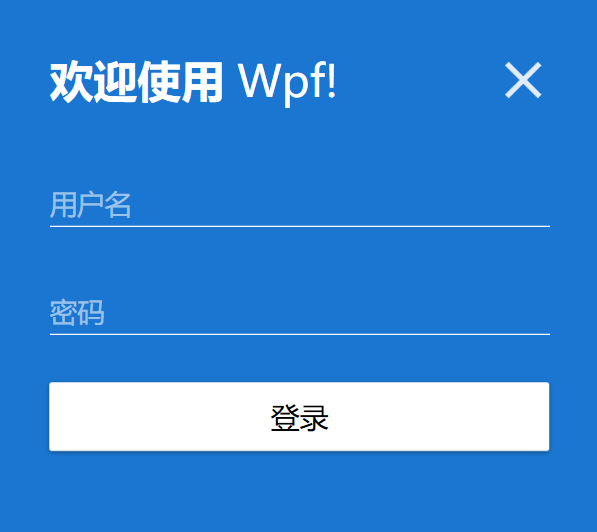
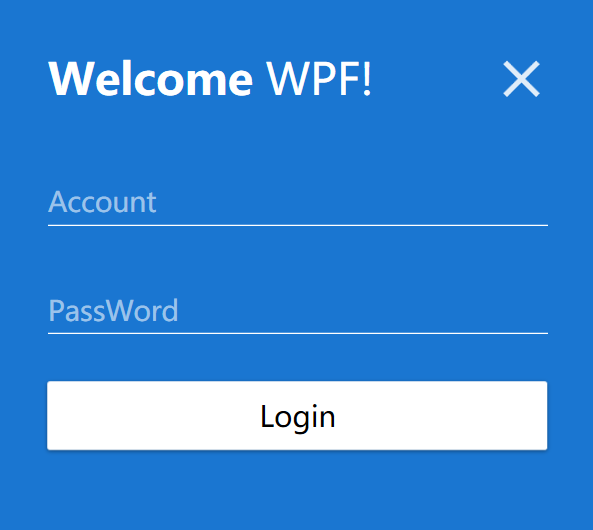
Add Xamarin login test binding

diff --git a/src/Consumption/Consumption.Mobile/Consumption.Mobile/App.xaml b/src/Consumption/Consumption.Mobile/Consumption.Mobile/App.xaml
@@ -2,10 +2,50 @@
 <Application xmlns="http://xamarin.com/schemas/2014/forms"
              xmlns:x="http://schemas.microsoft.com/winfx/2009/xaml"
              xmlns:d="http://xamarin.com/schemas/2014/forms/design"
-             xmlns:mc="http://schemas.openxmlformats.org/markup-compatibility/2006"
+             xmlns:mc="http://schemas.openxmlformats.org/markup-compatibility/2006" xmlns:mtrl="clr-namespace:XF.Material.Forms.Resources;assembly=XF.Material" xmlns:mtrltypo="clr-namespace:XF.Material.Forms.Resources.Typography;assembly=XF.Material"
              mc:Ignorable="d"
              x:Class="Consumption.Mobile.App">
     <Application.Resources>
+        <OnPlatform x:Key="FontFamily.RobotoRegular"
+            x:TypeArguments="x:String"
+            Android="Fonts/Roboto-Regular.ttf#Roboto-Regular"
+            iOS="Roboto-Regular" />
+        <OnPlatform x:Key="FontFamily.RobotoMedium"
+            x:TypeArguments="x:String"
+            Android="Fonts/Roboto-Medium.ttf#Roboto-Medium"
+            iOS="Roboto-Medium" />
 
+        <mtrltypo:MaterialFontConfiguration x:Key="Material.Font"
+            Body1="{StaticResource FontFamily.RobotoRegular}"
+            Body2="{StaticResource FontFamily.RobotoRegular}"
+            Button="{StaticResource FontFamily.RobotoMedium}"
+            Caption="{StaticResource FontFamily.RobotoRegular}"
+            H1="{StaticResource FontFamily.RobotoRegular}"
+            H2="{StaticResource FontFamily.RobotoRegular}"
+            H3="{StaticResource FontFamily.RobotoRegular}"
+            H4="{StaticResource FontFamily.RobotoRegular}"
+            H5="{StaticResource FontFamily.RobotoRegular}"
+            H6="{StaticResource FontFamily.RobotoMedium}"
+            Overline="{StaticResource FontFamily.RobotoRegular}"
+            Subtitle1="{StaticResource FontFamily.RobotoRegular}"
+            Subtitle2="{StaticResource FontFamily.RobotoMedium}" />
+
+        <mtrl:MaterialColorConfiguration x:Key="Material.Color"
+            Background="#EAEAEA"
+            Error="#B00020"
+            OnBackground="#000000"
+            OnError="#FFFFFF"
+            OnPrimary="#FFFFFF"
+            OnSecondary="#FFFFFF"
+            OnSurface="#000000"
+            Primary="#011A27"
+            PrimaryVariant="#000000"
+            Secondary="#063852"
+            SecondaryVariant="#001229"
+            Surface="#FFFFFF" />
+
+        <mtrl:MaterialConfiguration x:Key="Material.Configuration"
+            ColorConfiguration="{StaticResource Material.Color}"
+            FontConfiguration="{StaticResource Material.Font}" />
     </Application.Resources>
 </Application>

diff --git a/src/Consumption/Consumption.PC/View/LoginView.xaml b/src/Consumption/Consumption.PC/View/LoginView.xaml
@@ -37,8 +37,8 @@
                     </Grid.RowDefinitions>
 
                     <StackPanel Orientation="Horizontal" Margin="20 0 0 0" VerticalAlignment="Center">
-                        <TextBlock Text="欢迎使用" Foreground="White" FontSize="35" FontWeight="Bold" VerticalAlignment="Center"/>
-                        <TextBlock Text="Wpf!" Foreground="White" FontSize="35"  VerticalAlignment="Center" Margin="10 0 0 0"/>
+                        <TextBlock Text="Welcome" Foreground="White" FontSize="35" FontWeight="Bold" VerticalAlignment="Center"/>
+                        <TextBlock Text="WPF!" Foreground="White" FontSize="35"  VerticalAlignment="Center" Margin="10 0 0 0"/>
                     </StackPanel>
 
                     <Button Background="Transparent" Height="60" 
@@ -47,12 +47,12 @@
                         <materialDesign:PackIcon Kind="Close"  Width="50" Height="50"/>
                     </Button>
 
-                    <TextBox Grid.Row="1" materialDesign:HintAssist.Hint="用户名" Style="{StaticResource MaterialDesignFloatingHintTextBox}"
+                    <TextBox Grid.Row="1" materialDesign:HintAssist.Hint="Account" Style="{StaticResource MaterialDesignFloatingHintTextBox}"
                          Text="{Binding UserName}"
                          Foreground="White" BorderBrush="White" FontSize="22" 
                          VerticalAlignment="Center" Margin="20 0 20 0"/>
 
-                    <PasswordBox Grid.Row="2" materialDesign:HintAssist.Hint="密码"  Style="{StaticResource MaterialDesignFloatingHintPasswordBox}" 
+                    <PasswordBox Grid.Row="2" materialDesign:HintAssist.Hint="PassWord"  Style="{StaticResource MaterialDesignFloatingHintPasswordBox}" 
                          Foreground="White" BorderBrush="White" FontSize="22"
                          VerticalAlignment="Center" Margin="20 0 20 0"
                          local:PasswordBoxHelper.Password="{Binding PassWord,
@@ -64,7 +64,7 @@
 
                     <Button Grid.Row="3" Margin="20 0 20 0" Height="55" Foreground="Black" FontSize="23" 
                         Command="{Binding LoginCommand}"
-                        Background="White" BorderThickness="0" Content="登录"/>
+                        Background="White" BorderThickness="0" Content="Login"/>
 
                     <TextBlock Grid.Row="4" Text="{Binding Report}" Foreground="White" 
                            FontSize="20" HorizontalAlignment="Center" VerticalAlignment="Center"/>

diff --git a/src/Consumption/Consumption.Mobile/Consumption.Mobile/View/LoginPage.xaml b/src/Consumption/Consumption.Mobile/Consumption.Mobile/View/LoginPage.xaml
@@ -14,33 +14,27 @@
         <StackLayout Margin="40,0,0,0"  
                      Orientation="Horizontal"
                      VerticalOptions="Center">
-            <Label Text="欢迎使用" TextColor="White"
-               FontAttributes="Bold"
-               FontSize="30" 
-               />
-            <Label Text="Xamarin!" TextColor="White"
-               FontSize="30" 
-               />
+            <Label Text="Welcome" TextColor="White"  FontAttributes="Bold" FontSize="35"  />
+            <Label Text="Xamarin!" TextColor="White"  FontSize="35"  />
         </StackLayout>
 
         <StackLayout Orientation="Horizontal" VerticalOptions="End" Margin="40,0,0,5">
-            <Label Text="登录" FontSize="35" FontAttributes="Bold" TextColor="White"/>
+            <Label Text="Login" FontSize="35" FontAttributes="Bold" TextColor="White"/>
         </StackLayout>
-       
         <StackLayout Grid.Row="1" Margin="40,0,40,0"
                      VerticalOptions="Start">
-        <Entry BackgroundColor="Transparent" Placeholder="用户名"
+            <Entry BackgroundColor="Transparent" Placeholder="Account"
                Text="{Binding UserName}"
                Margin="0,10,0,10" FontSize="22"/>
-        <Entry IsPassword="True" Placeholder="密码" 
+            <Entry IsPassword="True" Placeholder="PassWord" 
                Text="{Binding PassWord}"
                BackgroundColor="Transparent"  Margin="0,0,0,10" FontSize="22"/>
-            <material:MaterialButton Text="登录" BackgroundColor="#0066CC"
+            <Button Text="Login" BackgroundColor="#0066CC" 
                                  Command="{Binding LoginCommand}"
                                  TextColor="White" FontSize="20"/>
-            <Label Text="忘记密码?" Margin="0,5,0,0" TextColor="#0066CC" BackgroundColor="Transparent"
+            <Label Text="Forgot your password?" Margin="0,5,0,0" TextColor="#0066CC" BackgroundColor="Transparent"
                HorizontalOptions="Center"/>
-    </StackLayout>
-        
+        </StackLayout>
+
     </Grid>
 </ContentPage>

diff --git a/src/Consumption/Consumption.Mobile/Consumption.Mobile/ViewCenter/BaseCenter.cs b/src/Consumption/Consumption.Mobile/Consumption.Mobile/ViewCenter/BaseCenter.cs
@@ -1,18 +1,6 @@
-/*
-*
-* 文件名    ：BaseCenter                             
-* 程序说明  : View/ViewModel 控制基类
-* 更新时间  : 2020-05-21 17：25
-* 联系作者  : QQ:779149549 
-* 开发者群  : QQ群:874752819
-* 邮件联系  : zhouhaogg789@outlook.com
-* 视频教程  : https://space.bilibili.com/32497462
-* 博客地址  : https://www.cnblogs.com/zh7791/
-* 项目地址  : https://github.com/HenJigg/WPF-Xamarin-Blazor-Examples
-* 项目说明  : 以上所有代码均属开源免费使用,禁止个人行为出售本项目源代码
-*/
+
 
-namespace Consumption.PC.ViewCenter
+namespace Consumption.Mobile.ViewCenter
 {
     using Consumption.Core.Entity;
     using Consumption.Core.Interfaces;
@@ -23,8 +11,7 @@ namespace Consumption.PC.ViewCenter
     using System.Text;
     using System.Threading.Tasks;
     using System.Windows;
-    using System.Windows.Controls;
-    using System.Windows.Media;
+    using Xamarin.Forms;
     using IModule = Core.Interfaces.IModule;
 
     /// <summary>
@@ -33,7 +20,7 @@ namespace Consumption.PC.ViewCenter
     /// <typeparam name="TView"></typeparam>
     /// <typeparam name="TViewModel"></typeparam>
     public class BaseCenter<TView, TViewModel> : IModule
-        where TView : UserControl, new()
+        where TView : ContentPage, new()
         where TViewModel : ViewModelBase, new()
     {
 
@@ -47,8 +34,12 @@ namespace Consumption.PC.ViewCenter
 
             if (ViewModel is IDataPager dataPager)
                 await dataPager.GetPageData(0);
-            View.DataContext = ViewModel;
+            View.BindingContext = ViewModel;
         }
+
+        public virtual void SubscribeEvent() { }
+
+        public virtual void SubscribeMessenger() { }
 
         object IModule.GetView()
         {

diff --git a/src/Consumption/Consumption.Mobile/Consumption.Mobile/ViewCenter/BaseDialogCenter.cs b/src/Consumption/Consumption.Mobile/Consumption.Mobile/ViewCenter/BaseDialogCenter.cs
@@ -1,0 +1,63 @@
+using System;
+using System.Collections.Generic;
+using System.Text;
+
+namespace Consumption.Mobile.ViewCenter
+{
+    using GalaSoft.MvvmLight;
+    using Microsoft.EntityFrameworkCore.Metadata.Internal;
+    using System;
+    using System.Collections.Generic;
+    using System.Text;
+    using System.Threading.Tasks;
+    using System.Windows;
+    using System.Windows.Input;
+    using Xamarin.Forms;
+
+    public class BaseDialogCenter<TView, TViewModel>
+        where TView : ContentPage, new()
+        where TViewModel : ViewModelBase, new()
+    {
+        protected TView View = new TView();
+        protected TViewModel ViewModel = new TViewModel();
+
+        /// <summary>
+        /// 绑定默认ViewModel
+        /// </summary>
+        protected void BindDefaultViewModel()
+        {
+            View.BindingContext = ViewModel;
+        }
+
+        /// <summary>
+        /// 获取窗口
+        /// </summary>
+        /// <returns></returns>
+        public virtual ContentPage GetContentPage()
+        {
+            this.SubscribeMessenger();
+            this.SubscribeEvent();
+            this.BindDefaultViewModel();
+            return View;
+        }
+
+        public void BindViewModel(object viewModel)
+        {
+        }
+
+        public virtual void Close()
+        {
+        }
+
+        /// <summary>
+        /// 注册默认事件
+        /// </summary>
+        public void SubscribeEvent()
+        {
+        }
+
+        public virtual void SubscribeMessenger()
+        {
+        }
+    }
+}

diff --git a/src/Consumption/Consumption.PC/App.xaml.cs b/src/Consumption/Consumption.PC/App.xaml.cs
@@ -24,7 +24,6 @@ namespace Consumption.PC
         protected override async void OnStartup(StartupEventArgs e)
         {
             base.OnStartup(e);
-            this.ConfigureServices();
 
             var serviceCollection = new ServiceCollection();
             ConfigureServices(serviceCollection);
@@ -41,18 +40,5 @@ namespace Consumption.PC
             services.AddScoped<IConsumptionService, ConsumptionService>();
         }
 
-        protected void ConfigureServices()
-        {
-            //AutofacLocator locator = new AutofacLocator();
-            //ContainerBuilder builder = new ContainerBuilder();
-            //builder.RegisterType<ConsumptionService>().As<IConsumptionService>();
-            //builder.RegisterType(typeof(MainCenter)).Named("MainCenter", typeof(IModuleDialog));
-            //builder.RegisterType(typeof(SkinCenter)).Named("SkinCenter", typeof(IModule));
-            //builder.RegisterType(typeof(UserCenter)).Named("UserCenter", typeof(IModule));
-            //builder.RegisterType(typeof(MenuCenter)).Named("MenuCenter", typeof(IModule));
-            //builder.RegisterType(typeof(BasicCenter)).Named("BasicCenter", typeof(IModule));
-            //locator.Register(builder);
-            //NetCoreProvider.RegisterServiceLocator(locator);
-        }
     }
 }

diff --git a/src/Consumption/Consumption.Mobile/Consumption.Mobile/App.xaml.cs b/src/Consumption/Consumption.Mobile/Consumption.Mobile/App.xaml.cs
@@ -1,4 +1,9 @@
-using Consumption.Mobile.View;
+using Consumption.Core.Common;
+using Consumption.Core.IService;
+using Consumption.Mobile.View;
+using Consumption.Mobile.ViewCenter;
+using Consumption.Service;
+using Microsoft.Extensions.DependencyInjection;
 using System;
 using Xamarin.Forms;
 using Xamarin.Forms.Xaml;
@@ -11,11 +16,21 @@ namespace Consumption.Mobile
         {
             InitializeComponent();
             XF.Material.Forms.Material.Init(this);
-            MainPage = new LoginPage();
+        }
+
+        private void ConfigureServices(IServiceCollection services)
+        {
+            //services.AddTransient(typeof(MainCenter));
+            services.AddScoped<IConsumptionService, ConsumptionService>();
         }
 
         protected override void OnStart()
         {
+            var serviceCollection = new ServiceCollection();
+            ConfigureServices(serviceCollection);
+            var serviceProvider = serviceCollection.BuildServiceProvider();
+            NetCoreProvider.RegisterServiceLocator(serviceProvider);
+            MainPage = new LoginCenter().GetContentPage();
         }
 
         protected override void OnSleep()

diff --git a/src/Consumption/Consumption.Mobile/Consumption.Mobile/ViewCenter/LoginCenter.cs b/src/Consumption/Consumption.Mobile/Consumption.Mobile/ViewCenter/LoginCenter.cs
@@ -1,0 +1,37 @@
+using Consumption.Core.Common;
+using Consumption.Mobile.View;
+using Consumption.ViewModel;
+using GalaSoft.MvvmLight.Messaging;
+using System;
+using System.Collections.Generic;
+using System.Text;
+using Xamarin.Forms;
+using XF.Material.Forms.Resources;
+using XF.Material.Forms.UI.Dialogs;
+using XF.Material.Forms.UI.Dialogs.Configurations;
+
+namespace Consumption.Mobile.ViewCenter
+{
+    /// <summary>
+    /// 登录控制类
+    /// </summary>
+    public class LoginCenter : BaseDialogCenter<LoginPage, LoginViewModel>
+    {
+        public override void SubscribeMessenger()
+        {
+            Messenger.Default.Register<MsgInfo>(View, "UpdateDialog",
+                async arg =>
+            {
+                await MaterialDialog.Instance.LoadingDialogAsync(message: arg.Msg,
+                    lottieAnimation: "test");
+            });
+            Messenger.Default.Register<bool>(View, "NavigationPage", arg =>
+           {
+
+           });
+            Messenger.Default.Register<bool>(View, "Exit", arg =>
+            {
+            });
+        }
+    }
+}

diff --git a/src/Consumption/Consumption.ViewModel/LoginViewModel.cs b/src/Consumption/Consumption.ViewModel/LoginViewModel.cs
@@ -23,6 +23,7 @@ namespace Consumption.ViewModel
     using System;
     using System.Collections.Generic;
     using System.Text;
+    using System.Threading.Tasks;
 
     /// <summary>
     /// 登录模块
@@ -87,6 +88,7 @@ namespace Consumption.ViewModel
                 }
 
                 UpdateDialog(true, "验证登陆中...");
+                await Task.Delay(10000);
                 var r = await service.LoginAsync(UserName, PassWord);
                 if (r == null || !r.success)
                 {

diff --git a/src/Consumption/Consumption.Mobile/Consumption.Mobile.Android/MainActivity.cs b/src/Consumption/Consumption.Mobile/Consumption.Mobile.Android/MainActivity.cs
@@ -18,7 +18,7 @@ namespace Consumption.Mobile.Droid
             ToolbarResource = Resource.Layout.Toolbar;
 
             base.OnCreate(savedInstanceState);
-            
+            Rg.Plugins.Popup.Popup.Init(this, savedInstanceState);
             Xamarin.Essentials.Platform.Init(this, savedInstanceState);
             global::Xamarin.Forms.Forms.Init(this, savedInstanceState);
             LoadApplication(new App());

diff --git a/src/Consumption/Consumption.Core/Interfaces/IModule.cs b/src/Consumption/Consumption.Core/Interfaces/IModule.cs
@@ -27,5 +27,15 @@ namespace Consumption.Core.Interfaces
         Task BindDefaultModel(int AuthValue);
 
         object GetView();
+
+        /// <summary>
+        /// 注册模块事件
+        /// </summary>
+        void SubscribeEvent();
+
+        /// <summary>
+        /// 注册模块消息
+        /// </summary>
+        void SubscribeMessenger();
     }
 }
